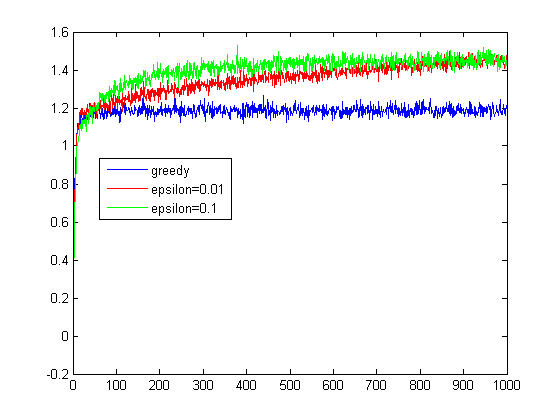
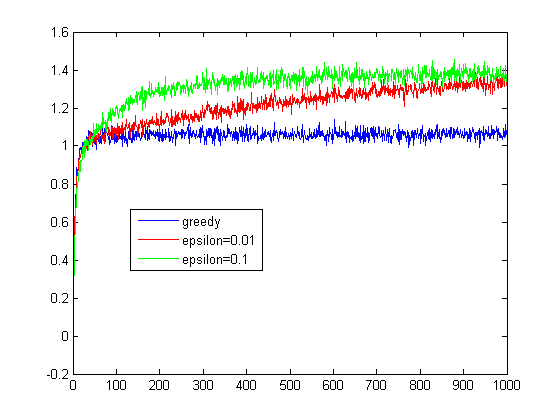
Initial commit

Changed region(s): [[0.1214, 0.1238, 0.9107, 0.5571], [0.2125, 0.4952, 0.4554, 0.65], [0.2732, 0.3714, 0.425, 0.4643]]

diff --git a/Programming examples for the book - Reinforcement learning - an introduction/Examples/Chapter 2.2/ten_armed_bandit_testbed.m b/Programming examples for the book - Reinforcement learning - an introduction/Examples/Chapter 2.2/ten_armed_bandit_testbed.m
@@ -3,8 +3,7 @@ function rewards=ten_armed_bandit_testbed(epsilon)
 numSteps=1000;
 
 %Generate the position of the ceneter of distribution for every arm 
-arms=rand(10,2000);
-arms=arms*4-2; %Positioned randomly int the interval [-2,2]
+arms=normrnd(zeros(10,2000),1);
 
 numTimesUsed=zeros(10,2000);
 Qt=zeros(10,2000);
